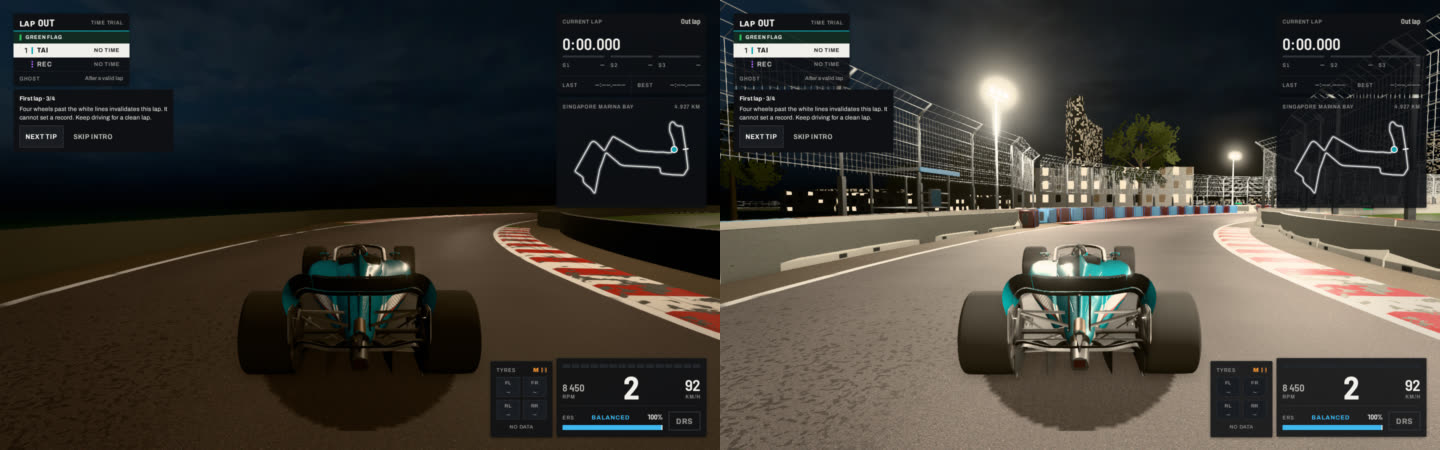
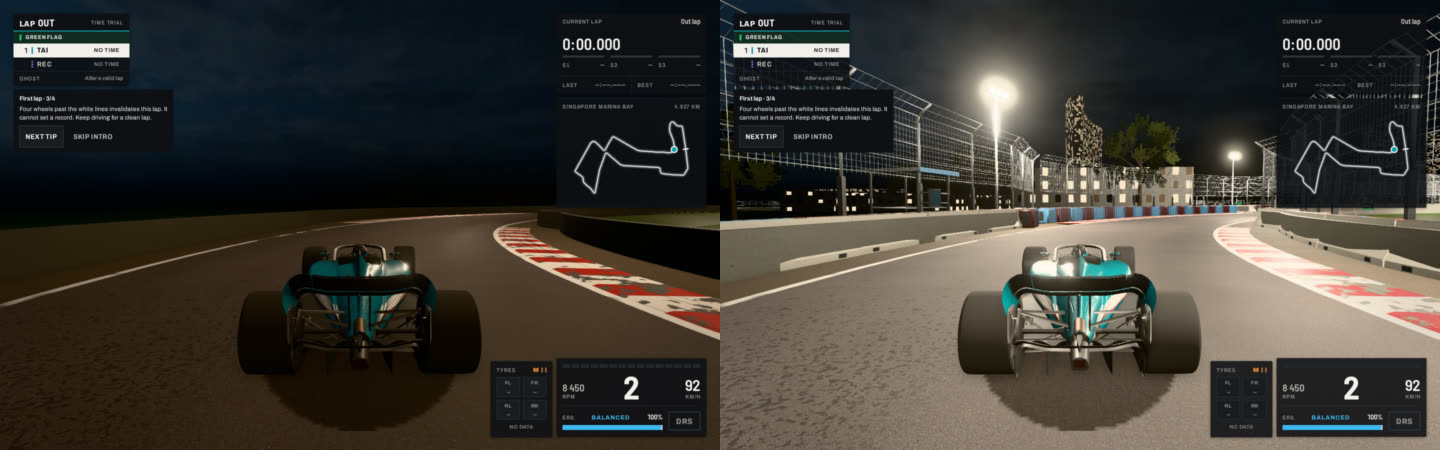
Evidence on the fixed head (night pairs, the two Raffles spots, perf, tree swap); status: the corridor, the complementary lamp map, what the Mobile 1% low is

Changed region(s): [[0.6562, 0.28, 0.9375, 0.4978], [0.5, 0.3422, 0.5938, 0.3733], [0.9688, 0.4356, 1.0, 0.4667]]

diff --git a/docs/STATUS.md b/docs/STATUS.md
@@ -63,7 +63,7 @@ Keys: arrows or WASD drive, Q/E shift (gears are automatic by default), F asks f
 - Singapore is raced at night under its own floodlights (the menu's first sky, a day session second); Spa is offered overcast only. Spa and Singapore now have AI racing lines (#32), so the rubbered line is drawn there too and the menus no longer mark them Time Trial only. Those lines were built for medium and high downforce, not the player's low-downforce car, so braking help (which follows a driving line made for the player's car) is offered at Monza only and is disabled, with that reason, elsewhere.
 - The online lobby and results screens keep their own plain styling; they are not yet restyled on the interface kit. They are reached from the main menu (Online Rooms) and by invite link, and run on the menus' input loop.
 - Circuit dressing: all three circuits are dressed. Spa: OpenStreetMap woods by leaf type with the kit's spruce and fir up close at the wood edge, Ardennes buildings, the hill pit garages, the mapped stands (`docs/evidence/m2-dressing-spa/`). Singapore: the kit's street blocks and debris fencing on every concrete barrier run, floodlight masts by the track's lighting rule, temporary scaffold stands with crowd and lighting trusses, marina backdrops for the smaller buildings by the track, the 722 mapped buildings at their mapped heights with lit windows at night, the bay and the river as water; the night is lit by its own lamp banks, the nearest eight as pooled lights and all of them in a baked lamp map beyond (`docs/evidence/m2-dressing-singapore/`). In priority order:
-  - Singapore: the floodlight masts follow the track file's rule (a mast every 40 m a side, staggered 20 m, 10 m tall: estimates, since none are mapped), not the real banks' places. Beyond the pooled lights the baked lamp map gives every static surface the light level ground gets at its place: a wall's lit face and its back get the same. The masts' lamp heads glow but cast no light cone or fog glow. On Mobile at night the drive's 1 % low is 45 fps (Monza 58): a few long frames while driving, to trace.
+  - Singapore: the floodlight masts follow the track file's rule (a mast every 40 m a side, staggered 20 m, 10 m tall: estimates, since none are mapped), not the real banks' places. Beyond the pooled lights the baked lamp map gives every static surface the light level ground gets at its place: a wall's lit face and its back get the same. The masts' lamp heads glow but cast no light cone or fog glow. On Mobile the drive's 1 % low has measured 45 to 55 fps: traced frame by frame, 20 s of driving holds 16.7 ms (p99 16.8 ms) with at most one long frame, a 66 ms one where three geometries were uploaded to the GPU the first time a kit level came into view (once per session; no shader compiled), or none at all on a rerun; the perf tool's 1 % low averages the slowest nine frames, so that one frame reads as 45 fps. Uploading the kit's levels at load would remove it.
   - Singapore by day: the river and the bay at a grazing angle read as dark grey channels; the water has no waves or reflections of the city.
   - Spa on High: the plantation before Blanchimont is the heaviest stretch. With vsync it holds 60 fps drawn; uncapped it draws 61 to 63 fps (16.3 ms) against Monza's Lesmo drive at 77 to 90 fps (11.1 to 13.0 ms), the kit conifers' geometry inside 95 m. From the last grid slot with nineteen cars ahead (866 calls, 4.49 M triangles at Spa; 1,043 and 5.18 M at Monza) both hold 60 fps with vsync and draw 79 to 82 fps uncapped at Spa, 88 to 94 at Monza. Mobile has no near trees and holds 60 fps at both circuits on the emulated phone, the full grid included.
   - The crowd is still the blocky stand-in: the kit's crowd figures (368 to 732 triangles) need a per-instance near swap like the trees, limited to the closest rows.
@@ -90,8 +90,11 @@ Keys: arrows or WASD drive, Q/E shift (gears are automatic by default), F asks f
 
 ## Decided for you
 
+- M2 dressing: a mapped building is left out when any part of its footprint reaches into the drivable corridor (inside the barriers, or within a metre beyond them) or the centreline runs through it, at every circuit; before, only buildings whose centre was within 12 m of the centreline were. Two Singapore buildings were mapped across the road (s 1234 and 1366: roads the race closes) and 17 small buildings stood inside Spa's run-off (marshal huts P1 to P19B and unnamed ones), which the world's own marshal posts replace; Monza loses none. `corridor.test.ts` checks every kept footprint against every centreline sample and every barrier by brute force.
+- M2 dressing: a prefetch (the budget's request-log check) releases only what it made; the decoded images belong to the page's download cache and stay for the next session.
+
 - M2 Singapore dressing: the circuit's floodlights are temporary and not mapped (one tower in the Overpass query), so the kit masts stand by the track file's rule: a mast every 40 m a side, the right side 20 m on, 1 m behind the wall, its lamps 10 m up (the kit mast scaled to that). Lighting trusses run on the fence top in front of each temporary stand. Each mast is one pooled light (900 cd, 70 m reach) and every 12 m of truss another (500 cd), set 1.5 m ahead of and 0.5 m below its lamps: at the lamps the lamp housing itself took the inverse-square peak and bloomed into flickering halos.
-- M2 Singapore dressing: the baked lamp map is in world (x, z), 2 m cells over the lap's box and 120 m around, irradiance on level ground with three.js's point-light falloff; every static surface (track, ground, buildings, trees, kit props, crowd) adds it, fading in where the pool's farthest lights fade out. A lookup along the lap in (s, d) was the first idea in `docs/render.md`; the world grid also lights the walls, the stands and the ground beside the track.
+- M2 Singapore dressing: the baked lamp map is in world (x, z), 2 m cells over the lap's box and 120 m around, irradiance on level ground at road level with three.js's point-light falloff, and the ground height of each cell; every static surface (track, ground, buildings, trees, kit props, crowd) adds it less what the pooled lights, at their current fade, put on that same ground point, so a bank lights a surface once whether pooled, fading over or baked (within 1.3 % of the bank total at road probes while the camera drives past; adding the whole bake to the pool, as first done, reached 1.6 to 2 times near the camera). A lookup along the lap in (s, d) was the first idea in `docs/render.md`; the world grid also lights the walls, the stands and the ground beside the track.
 - M2 Singapore dressing: the temporary stands stand where the ground behind the wall is clear of mapped buildings and water, outside the corner where there is one: the pit straight, Turn 1, Republic Boulevard, Stamford Road, the Padang straight and the bay. None is mapped, and the Esplanade bridge has water on both sides.
 - M2 Singapore dressing: mapped buildings within 70 m of the wall with a footprint of 60 to 1,500 m² and up to 34 m tall are the kit's pavilion, office or hotel (by height), laid along the footprint's longest side, front to the track, scaled to its area; taller and farther buildings are the mapped footprints at their mapped heights.
 - M2 Singapore dressing: water is drawn for mapped water bodies over 1,500 m² without a height tag (a rooftop pool has one), at the 5th percentile of the filtered surface model inside the outline (Marina Reservoir at sea level; the 30th put the narrow river 4 m too high), the ground held 1.5 m below it.

diff --git a/docs/render.md b/docs/render.md
@@ -30,7 +30,7 @@ Textures are authored in sRGB (colour maps tagged `SRGBColorSpace`; normal, ARM 
 - **Ground bounce**: below the horizon the dome (and so the environment map) is the circuit's ground, the light falling on it times a ground albedo over pi (`groundBounce`), instead of the pure-sky image's blue lower half: undersides and shadow sides get a grey-green bounce of the right strength, and none at night beyond what the sky gives.
 - **Haze**: the fog chunks are replaced once for the page with height fog (extinction decays with height above the camera, scale 60 m, integrated along the ray) in the sky's horizon colour; the dome melts into the same colour at the horizon.
 - **Time of day** is data: `MONZA_AFTERNOON`, `OVERCAST_DAY` (no sun disc, a weak diffuse key with soft shadows) and `NIGHT_FLOODLIT` (dim sky, local lights). `?tod=overcast-day|night-floodlit` loads them at Monza for testing.
-- **Many local lights at night** (`lighting/light-pool.ts`): a forward renderer pays per light per pixel, so the shaders have a fixed number of point-light slots (8 with post, 4 without) and each frame the slots take the lights nearest the camera (a partial selection into reused arrays, no sorting or garbage), fading the last ones out before they lose their slot. The count in the shaders never changes, so there are no recompiles however many lamps a circuit places. Beyond them a circuit's lamp banks are baked (`lighting/lamp-map.ts`): at load, every bank's light on level ground on a 2 m world grid (half-float, three.js's point-light falloff), added by every standard material of the static scenery (track, ground, buildings, trees, props) beyond the pool's current reach, so the road ahead stays lit and nothing is lit twice near the camera. A circuit whose world places its own banks (Singapore's masts and trusses, `world/street.ts`) lights the night from them; elsewhere `floodlightsAlong(track)` places a stand-in plan for the night test scene.
+- **Many local lights at night** (`lighting/light-pool.ts`): a forward renderer pays per light per pixel, so the shaders have a fixed number of point-light slots (8 with post, 4 without) and each frame the slots take the lights nearest the camera (a partial selection into reused arrays, no sorting or garbage), fading the last ones out before they lose their slot. The count in the shaders never changes, so there are no recompiles however many lamps a circuit places. Beyond them a circuit's lamp banks are baked (`lighting/lamp-map.ts`): at load, every bank's light on level ground on a 2 m world grid (half-float, three.js's point-light falloff), added by every standard material of the static scenery (track, ground, buildings, trees, props) less what the pooled lights, at their current fade, put on the same ground point (the map keeps each cell's ground height), so the road ahead stays lit and a bank lights a surface once whether pooled, fading or baked. A circuit whose world places its own banks (Singapore's masts and trusses, `world/street.ts`) lights the night from them; elsewhere `floodlightsAlong(track)` places a stand-in plan for the night test scene.
 
 ## Quality presets
 
